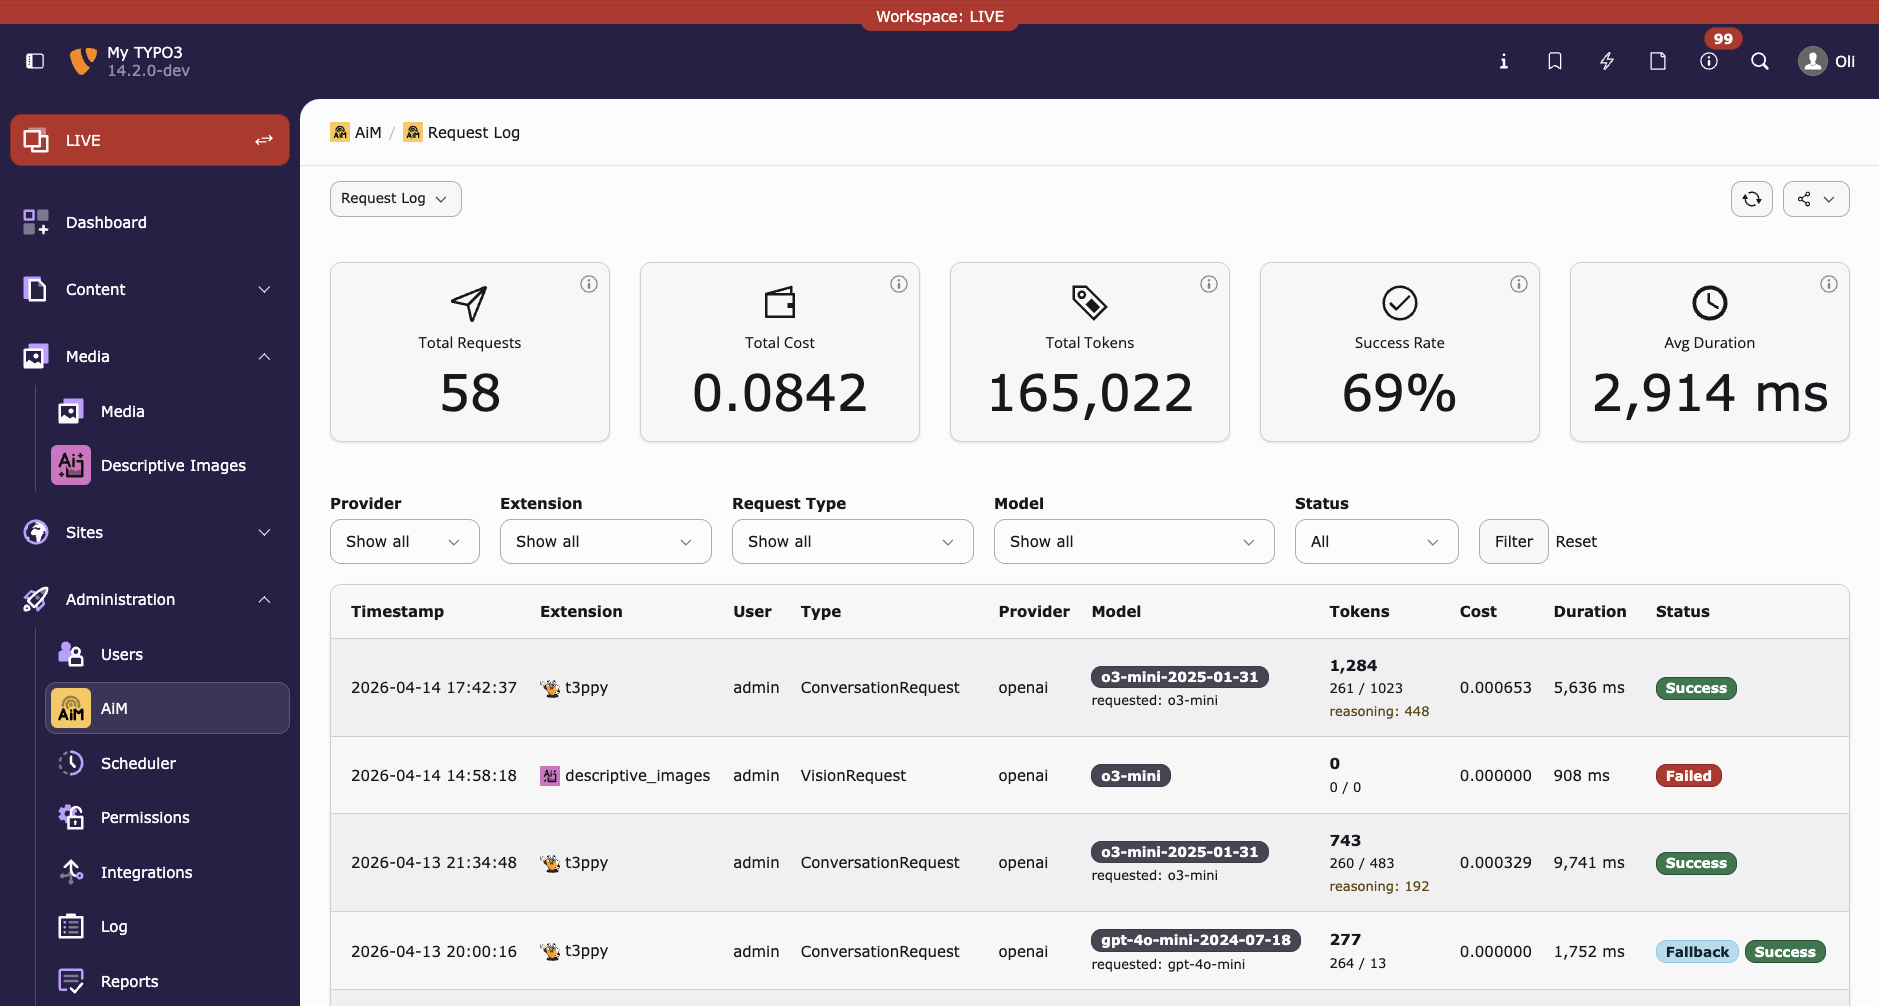
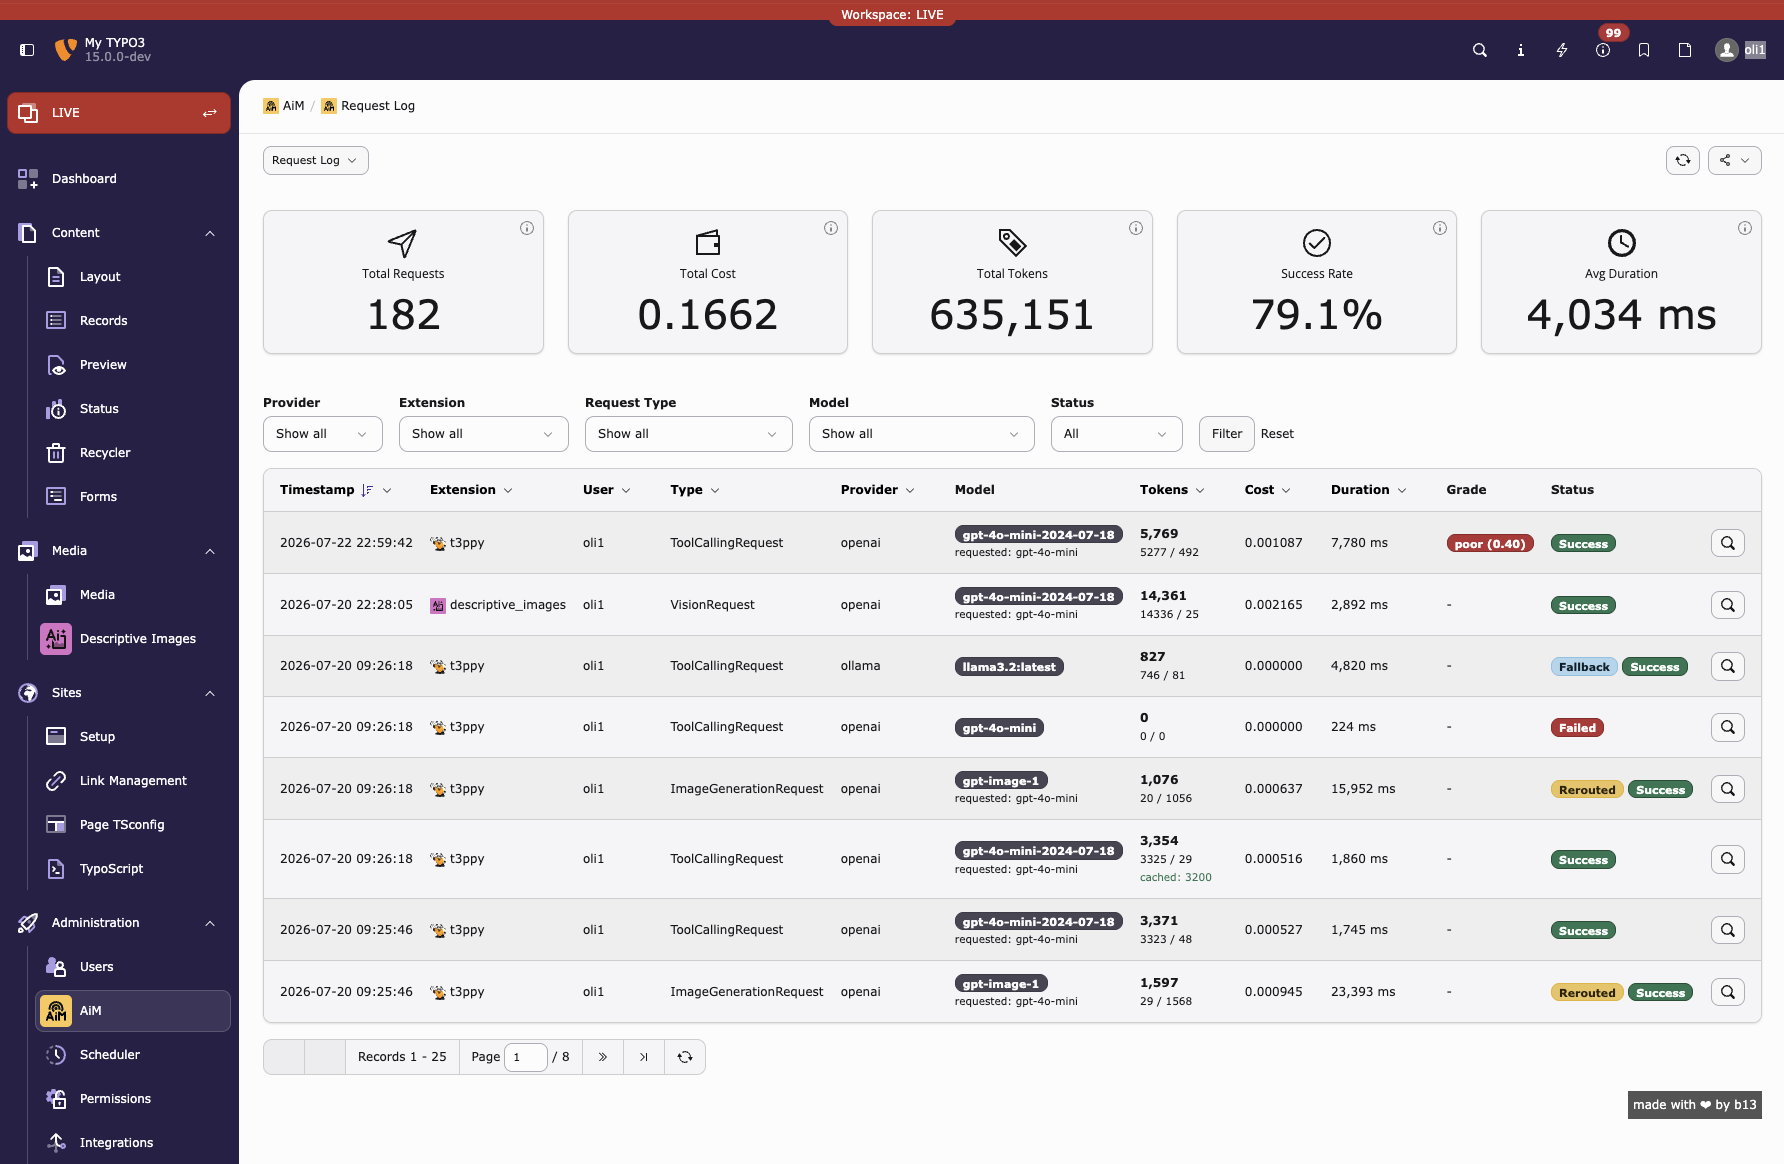
[TASK] Enable grading of tool calling requests

diff --git a/Tests/Functional/Middleware/GraderMiddlewareTest.php b/Tests/Functional/Middleware/GraderMiddlewareTest.php
@@ -23,7 +23,11 @@ use B13\Aim\Provider\AiProviderInterface;
 use B13\Aim\Request\ConversationRequest;
 use B13\Aim\Request\EmbeddingRequest;
 use B13\Aim\Request\Message\UserMessage;
+use B13\Aim\Request\ToolCallingRequest;
+use B13\Aim\Request\ToolDefinition;
 use B13\Aim\Response\TextResponse;
+use B13\Aim\Response\ToolCall;
+use B13\Aim\Response\ToolCallingResponse;
 use B13\Aim\Service\GradingService;
 use PHPUnit\Framework\Attributes\Test;
 use Psr\Log\NullLogger;
@@ -197,6 +201,60 @@ final class GraderMiddlewareTest extends FunctionalTestCase
     }
 
     #[Test]
+    public function marksRowPendingForToolCallingRequestWithFinalTextAnswer(): void
+    {
+        $logRepo = $this->get(RequestLogRepository::class);
+        $logUid = $logRepo->log([
+            'crdate' => time(),
+            'configuration_uid' => 1,
+            'response_content' => 'the final answer',
+        ]);
+
+        $context = new RequestContext();
+        $context->logUid = $logUid;
+        $middleware = new GraderMiddleware($this->buildStubGradingService(), $logRepo, new NullLogger());
+
+        $config = $this->buildConfiguration([
+            'grading_enabled' => 1,
+            'judge_configuration_uid' => 99,
+        ]);
+        $request = $this->buildToolCallingRequest($config);
+        $response = new ToolCallingResponse('the final answer');
+        $next = new AiMiddlewareHandler(static fn() => $response, $context);
+
+        $middleware->process($request, $this->stubProvider(), $config, $next);
+
+        $row = $logRepo->findByUid($logUid);
+        self::assertSame(GradeStatus::Pending->value, $row['grade_status']);
+    }
+
+    #[Test]
+    public function doesNotMarkPendingForToolCallingRequestAwaitingToolExecution(): void
+    {
+        $logRepo = $this->get(RequestLogRepository::class);
+        $logUid = $logRepo->log(['crdate' => time(), 'configuration_uid' => 1]);
+
+        $context = new RequestContext();
+        $context->logUid = $logUid;
+        $middleware = new GraderMiddleware($this->buildStubGradingService(), $logRepo, new NullLogger());
+
+        $config = $this->buildConfiguration([
+            'grading_enabled' => 1,
+            'judge_configuration_uid' => 99,
+        ]);
+        $request = $this->buildToolCallingRequest($config);
+        $response = new ToolCallingResponse('', toolCalls: [
+            new ToolCall('call_1', 'get_weather', '{"city":"Berlin"}'),
+        ]);
+        $next = new AiMiddlewareHandler(static fn() => $response, $context);
+
+        $middleware->process($request, $this->stubProvider(), $config, $next);
+
+        $row = $logRepo->findByUid($logUid);
+        self::assertSame(GradeStatus::None->value, $row['grade_status']);
+    }
+
+    #[Test]
     public function doesNotMarkPendingWhenJudgeIsSameConfiguration(): void
     {
         $logRepo = $this->get(RequestLogRepository::class);
@@ -241,6 +299,15 @@ final class GraderMiddlewareTest extends FunctionalTestCase
         return new ConversationRequest(
             configuration: $config,
             messages: [new UserMessage('hi')],
+        );
+    }
+
+    private function buildToolCallingRequest(ProviderConfiguration $config): ToolCallingRequest
+    {
+        return new ToolCallingRequest(
+            configuration: $config,
+            messages: [new UserMessage('what is the weather in Berlin?')],
+            tools: [new ToolDefinition('get_weather', 'Get current weather for a city')],
         );
     }
 

diff --git a/Classes/Middleware/GraderMiddleware.php b/Classes/Middleware/GraderMiddleware.php
@@ -20,7 +20,9 @@ use B13\Aim\Provider\AiProviderInterface;
 use B13\Aim\Request\AiRequestInterface;
 use B13\Aim\Request\ConversationRequest;
 use B13\Aim\Request\TextGenerationRequest;
+use B13\Aim\Request\ToolCallingRequest;
 use B13\Aim\Response\TextResponse;
+use B13\Aim\Response\ToolCallingResponse;
 use B13\Aim\Service\GradingService;
 use Psr\Log\LoggerInterface;
 use TYPO3\CMS\Core\Authentication\BackendUserAuthentication;
@@ -98,7 +100,15 @@ final class GraderMiddleware implements AiMiddlewareInterface
         if (!$response->isSuccessful()) {
             return false;
         }
-        if (!($request instanceof ConversationRequest) && !($request instanceof TextGenerationRequest)) {
+        if ($request instanceof ToolCallingRequest) {
+            // An intermediate turn awaiting tool execution has no final answer yet
+            // (response_content is typically empty) - grading that would just bounce
+            // off GradingService's empty-content guard. Only grade once the model has
+            // produced its actual final text reply.
+            if ($response instanceof ToolCallingResponse && $response->requiresToolExecution()) {
+                return false;
+            }
+        } elseif (!($request instanceof ConversationRequest) && !($request instanceof TextGenerationRequest)) {
             return false;
         }
         if (($request->metadata['_aim_grading'] ?? false) === true) {

diff --git a/Documentation/Introduction.md b/Documentation/Introduction.md
@@ -203,6 +203,8 @@ Filter by provider, extension, request type, or success/failure. Statistics dash
 
 Click any row (or its dedicated details button) to open the **full request detail view**: the complete, untruncated prompt and response - the list only ever shows a short preview - alongside every other field recorded for that request. It's reachable via a stable, linkable URL (`aim_request_log.show`), so other extensions logging through AiM can link straight from their own UI to the exact request behind a piece of generated content, instead of sending editors to search the list manually.
 
+![Request Log Detail](Images/request-log-detail.png)
+
 ### Response quality grading
 
 How good are the AI responses your site produces? AiM can answer that automatically. Enable **LLM grading** on any provider configuration and AiM scores each response with a second AI model acting as an impartial judge ("LLM-as-a-judge").
